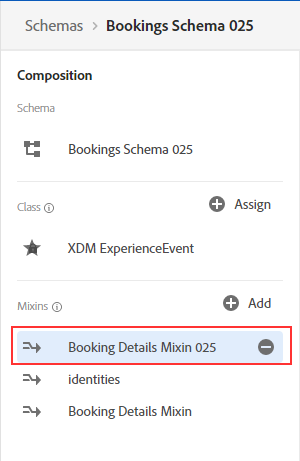
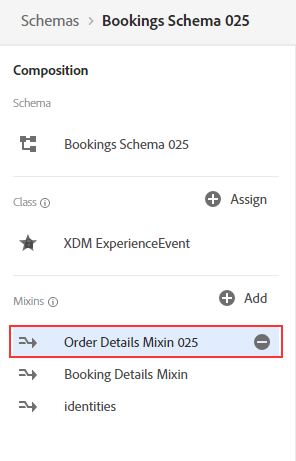
schema changes

diff --git a/labs/travel/Foundations/Schemas.md b/labs/travel/Foundations/Schemas.md
@@ -193,7 +193,7 @@ Instructions:
       ![Demo](./images/schemamixin7.png)
       
       
-13. Display name is "Booking Details Mixin &lt;your-assigned-number>" and then hit 'Add Mixin'
+13. Display name is "Order Details Mixin &lt;your-assigned-number>" and then hit 'Add Mixin'
       
       
     ![Demo](./images/schemamixin8.png)
